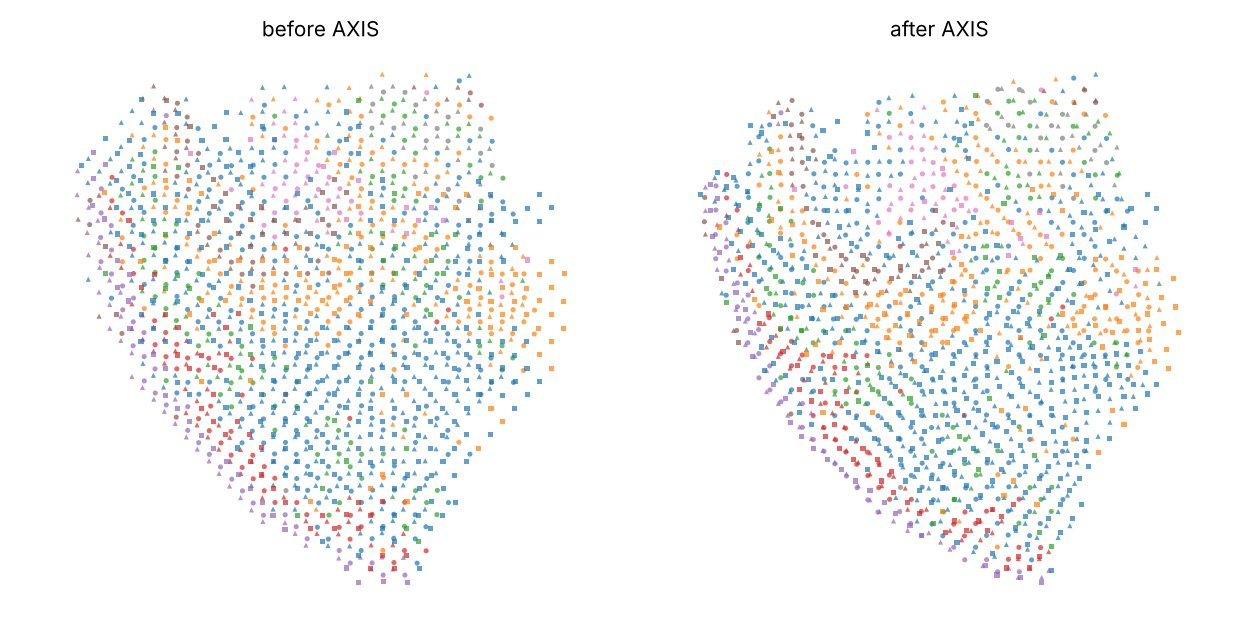
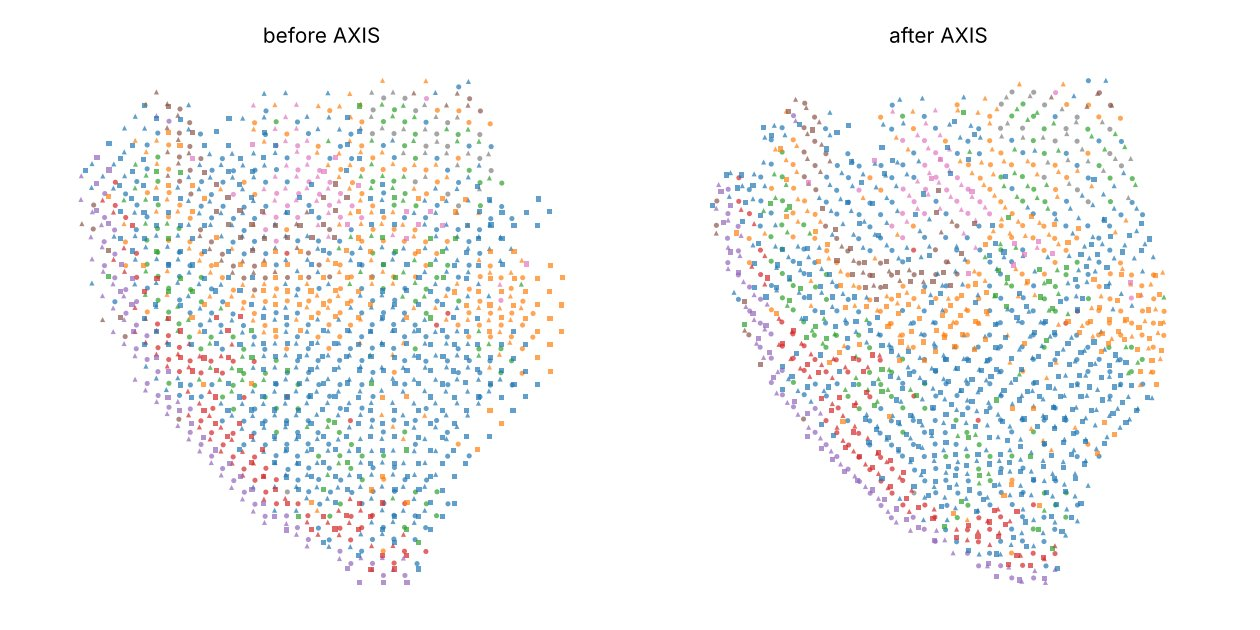
Gallery: SCC patient-10 reproduction report with parameters
The gallery becomes a report of the SCC analysis (Fig. 3) reproduced with
the manuscript's trained model:
- summary, data, and every setting used (pseudo-images, network and the
  training settings of its weights, matching, generation, evaluation
  metrics with their definitions);
- results: alignment against the published positions, Fig. 3c cluster
  metrics and Fig. 3f-g gene-pattern metrics (from the manuscript's
  evaluation scripts), figures from the manuscript-model run, and new
  KRT1/COL1A1 maps of the held-out vs generated section;
- the 256-px CPU training run as a comparison, and how to reproduce.

axis.pl.spatial gains vmin so panels can share one colour scale.

Claude-Session: https://claude.ai/code/session_01C6GeFzGzrUA8Am8cHa4gkL

diff --git a/src/axis/pl/_plotting.py b/src/axis/pl/_plotting.py
@@ -99,13 +99,15 @@ def spatial(
     title: Optional[str] = None,
     vmax: Optional[float] = None,
     mask_key: Optional[str] = "valid",
+    vmin: Optional[float] = None,
 ):
     """Scatter one AnnData by a gene (continuous) or an ``obs`` column (categorical).
 
     ``mask_key`` (``obs["valid"]`` for generated tissues) hides unsupported
     output locations. Category colours follow ``categories`` (default: the
     column's category order), so panels that share it use the same colours
-    even when some categories are absent.
+    even when some categories are absent. ``vmin`` / ``vmax`` fix the colour
+    range of continuous values, e.g. to compare panels on one scale.
     """
     plt = _plt()
     if ax is None:
@@ -142,7 +144,7 @@ def spatial(
             X = adata.layers[layer] if layer else adata.X
             col = X[:, adata.var_names.get_loc(color)]
             values = np.asarray(col.toarray() if hasattr(col, "toarray") else col, dtype=float).ravel()
-        sc = ax.scatter(xy[keep, 0], xy[keep, 1], c=values[keep], s=s, cmap=cmap, vmax=vmax, linewidths=0)
+        sc = ax.scatter(xy[keep, 0], xy[keep, 1], c=values[keep], s=s, cmap=cmap, vmin=vmin, vmax=vmax, linewidths=0)
         plt.colorbar(sc, ax=ax, fraction=0.046, pad=0.02)
     ax.set_title(title if title is not None else (color or ""), fontsize=10)
     _finish(ax)

diff --git a/docs/gallery.md b/docs/gallery.md
@@ -1,77 +1,207 @@
-# Gallery
+# Gallery: SCC patient 10
 
-Outputs of the quickstart (`examples/quickstart_scc.py`) on SCC patient 10,
-run on a 4-core CPU without a GPU:
+This page reproduces the SCC analysis of the manuscript (Fig. 3) on the
+quickstart sample with the reorganised `axis` package and the manuscript's
+trained SCC patient-10 model, without retraining. All numbers below come from
+`examples/quickstart_scc.py` and from the manuscript's own pipeline and
+evaluation scripts in `reproducibility/`.
 
-```bash
-python examples/quickstart_scc.py --data-dir scc_patient10 --canvas-size 256 --max-steps 400
-```
+!!! success "Summary"
+    - **Alignment.** The transition fields reproduce the published alignment:
+      the median distance between the transported spots and the published
+      positions is **0 px**. 74% (10 µm) and 67% (20 µm) of the spots land on
+      exactly the published pixel, and 95% / 90% lie within 1 px.
+    - **Generation.** `axis.tl.generate` and the manuscript pipeline
+      (`reproducibility/pipelines/generation/scc_depth.py`) produce a
+      **bit-identical** virtual 10-µm section (expression, cluster
+      probabilities and labels).
+    - **Evaluation.** The generated section scores 0.198 / 0.271 / 0.158 on
+      the Fig. 3c cluster metrics. The gene-pattern scores of Fig. 3f–g are
+      0.576 / 0.395 / 0.363 for the marker genes and 0.520 / 0.291 / 0.269
+      for the top-100 genes.
 
-The network was trained from scratch for 400 steps on a 256-px canvas
-(55 min); the paper's models use 512-px canvases and 1000 epochs. Rerunning
-from the saved model with `--checkpoint quickstart_out/model/model_final.pth --epochs 0`
-reproduces the same numbers in 81 s.
+## Data
 
-## Molecular pseudo-image
+| Item | Details |
+|---|---|
+| Sample | Cutaneous squamous cell carcinoma, patient 10 (Ji *et al.*, *Cell* 2020; GEO GSE144240) |
+| Sections | three serial 10x Visium sections at 0, 10 and 20 µm: 545, 619 and 460 spots |
+| Morphology | H&E on a 512 × 512 px canvas; neighbouring spots are about 13.5 px apart |
+| Clusters | `obs["original_clusters"]`: 8 clusters, the same labels in every section (7 occur in the 20-µm section) |
+| Held out | the 10-µm section: it is not used for generation and serves as ground truth |
 
-The first 10 principal components of section 0, rasterised at 1/8 of the
-canvas resolution (Methods, Eq. 1).
+## Settings
 
-![Pseudo-image channels of section 0](assets/gallery/scc_pseudoimage_section0.jpg)
+**Pseudo-images** (`axis.pp.build_pseudoimages`, preset `"visium"`)
 
-## Transition field: 20 µm → 0 µm
+| Parameter | Value |
+|---|---|
+| normalisation | 10⁴ counts per spot, then log1p |
+| features | genes shared by the three sections (14,197) |
+| components | 10 principal components, each min–max scaled to [0, 1] |
+| rasterisation | Gaussian kernel on a 32 × 32 grid of 16-px cells (σ = 8 px), 2 × 2 median filter, nearest-neighbour resize to 64 × 64 (1/8 of the canvas) |
+| gene filter | the quickstart keeps all shared genes; the Fig. 3 pipeline run below first removed genes detected in fewer than 15 spots, as the original SCC preprocessing did (spots with fewer than 100 genes would also be removed; there are none). The resulting fields differ by 0.01 px on average |
 
-Fixed and moving H&E, the moving section warped by the learned field, and
-green/magenta overlays before and after.
+**Transition-field network**
 
-![Registration of section 2 onto section 0](assets/gallery/scc_registration_2_to_0.jpg)
+| Parameter | Value |
+|---|---|
+| network | `TransitionFieldNet`, transformer fusion, RGB H&E input, 512-px canvas |
+| weights | manuscript model `scc_patient10_img_win9_gene_win5_frac0.95_gene0.5_generegu0/model_1000.pth` |
+| training settings of these weights | morphology NCC window 9; molecular masked-NCC window 5 (≥ 95% overlap); λ_morph = 1, λ_mol = 0.5, λ_smooth = 1 (smoothness on the full-resolution field); Adam, learning rate 10⁻⁴, batch size 1; 1000 epochs |
+| inference | evaluation mode on a 4-core CPU: fields for all 6 ordered section pairs within 59 s of starting (including data loading and pseudo-images); the whole quickstart takes 69 s |
 
-## Spatially matched sections
+**Spatial matching** (`axis.tl.match`, reference = section 0)
 
-All three sections before and after transport into the frame of section 0
-(colour: cluster, marker: section).
+Spots of sections 1 and 2 are transported into section 0 with the
+nearest-pixel inverse of their fields (`fields.transport`). *Neighbourhood
+agreement* is the fraction of spots whose cluster is a majority cluster of the
+section-0 spots within 1.5 spot distances (20.25 px).
+
+**Generation** (`axis.tl.generate`, the settings of the Fig. 3 run)
+
+| Parameter | Value |
+|---|---|
+| anchors → query | 0 µm and 20 µm → 10 µm; relative position α = 0.5, anchor weights β = (0.5, 0.5) |
+| biological-axis bandwidth | σ_τ = 6.67 µm (one third of the anchor spacing) |
+| output support | Visium-like hexagonal grid, `grid_size=40`: 1,650 locations, 13.75 px apart |
+| tissue support | locations within `max_dist` = 10 px of the transported evidence (1,005 points), smoothed on the grid, largest connected region |
+| spatial bandwidth | σ_x = 3 px, for both expression and clusters (no separate cluster bandwidth) |
+| neighbours | k = 48 nearest evidence points (at least 1) |
+| molecular-quality weight | γ_C = 1, γ_G = 0.7, relative coverage clipped to [0.5, 2] |
+| genes | all 14,567 genes shared by the two anchors; raw counts, weighted mean |
+
+**Evaluation** (the manuscript's scripts in `reproducibility/figure3/`)
+
+| Metric | Definition |
+|---|---|
+| cluster composition | symmetric relative absolute error of the cluster fractions (generated vs held-out) |
+| within-cluster spacing | Wasserstein distance between the nearest same-cluster distances, in units of each tissue's spot spacing |
+| cluster connectivity | Jensen–Shannon distance (base 2) between the 6-nearest-neighbour cluster profiles |
+| gene sets | 12 markers (KRT1, KRT5, KRT10, KRT14, KRT15, COL1A1, COL1A2, DCN, PECAM1, VWF, PTPRC, CD3D) and the 100 most highly expressed other genes of the held-out section |
+| gene preprocessing | 10⁴ counts per spot and log1p; smoothing over 12 neighbours, z-score, local gradients (8 neighbours) and gradient trend (28 neighbours), rasterised on a 64 × 64 grid |
+| gradient-map similarity | NCC of the gradient-strength maps, maximised over rotations of ±12° (3° steps) and shifts of ±6 cells (2-cell steps) |
+| orientation similarity | Pearson correlation of the axial gradient orientations (cos 2θ, sin 2θ) in cells above the 60th percentile of the held-out gradient strength |
+| weighted orientation similarity | the same over all cells, with orientations weighted by normalised gradient strength |
+
+Cluster metrics are averaged over clusters and gene metrics over the genes of
+each set. Lower is better for the cluster metrics, higher for the gene metrics.
+
+## Results
+
+### Alignment
+
+| Spatial matching to section 0 | before | this package, manuscript model | published |
+|---|---|---|---|
+| 10 µm, neighbourhood agreement | 0.624 | 0.706 | 0.715 |
+| 20 µm, neighbourhood agreement | 0.551 | 0.707 | 0.714 |
+| 10 µm, median displacement | — | 19.2 px | 19.1 px |
+| 20 µm, median displacement | — | 29.1 px | 29.2 px |
+
+| Agreement with the published positions | 10 µm | 20 µm |
+|---|---|---|
+| median distance | 0 px | 0 px |
+| spots on exactly the published pixel | 74% | 67% |
+| spots within 1 px | 95% | 90% |
+
+The published positions are whole pixels chosen by a nearest-pixel inverse
+of the field. For the remaining spots, the published pixel is almost as good a
+solution under the recomputed field: it maps back to within 0.16 px (10 µm)
+and 0.23 px (20 µm), median, of the best pixel. Sub-pixel differences between
+the original GPU computation and this CPU run therefore move these spots to a
+neighbouring pixel, which also explains the small differences in
+neighbourhood agreement.
+
+![H&E of the 20-µm section registered onto the 0-µm section](assets/gallery/scc_registration_2_to_0.jpg)
+
+*Fixed (0 µm) and moving (20 µm) H&E, the moving section warped by the
+learned field, and green/magenta overlays before and after.*
 
 ![Sections before and after matching](assets/gallery/scc_matched.jpg)
 
-## Virtual tissue at 10 µm
+*All three sections before and after transport into the frame of section 0
+(colour: cluster, marker: section).*
 
-The 10-µm section generated from the 0- and 20-µm anchors (α = 0.5) on a
-Visium-like grid with the settings of the manuscript's Fig. 3, next to the
-measured 10-µm section that was held out.
+### Virtual tissue at 10 µm
 
 ![Virtual 10-µm section](assets/gallery/scc_virtual_section.jpg)
 
-## Numbers (`report.json`)
+*The 10-µm section generated from the 0- and 20-µm anchors (849 supported
+locations), next to the measured sections.*
 
-Neighbourhood agreement is the fraction of spots whose cluster matches the
-majority cluster of section-0 spots within 1.5 spot distances. "Published"
-is the AXIS alignment stored with the sample (`obsm["spatial_axis"]`). The
-last column runs the same script with the SCC patient-10 model used in the
-manuscript (512 px, `--checkpoint ... --epochs 0`, 69 s on the same CPU).
+![KRT1 and COL1A1, measured and generated](assets/gallery/scc_gene_maps.jpg)
 
-| | before | this run | manuscript model | published |
-|---|---|---|---|---|
-| 10 µm → 0 µm, neighbourhood agreement | 0.624 | 0.676 | 0.706 | 0.715 |
-| 20 µm → 0 µm, neighbourhood agreement | 0.551 | 0.662 | 0.707 | 0.714 |
+*KRT1 (epithelium) and COL1A1 (stroma) in the held-out 10-µm section and in
+the generated section; 10⁴ counts per spot, log1p, one colour scale per gene
+(0 to the 99th percentile of both).*
 
-This run's transported spots lie 3.5 px (10 µm) and 4.6 px (20 µm) from the
-published ones on the 256-px canvas, where neighbouring spots are 6.75 px
-apart. With the manuscript model, the median distance is 0 px: 67–74% of the
-spots land on exactly the published pixel and 90–95% within 1 px. The rest
-differ because the published positions are whole pixels chosen by a
-nearest-pixel inverse of the field, so sub-pixel differences between the
-original GPU computation and this CPU run move some spots to a neighbouring
-pixel.
+| Fig. 3c, cluster fidelity (lower is better) | AXIS |
+|---|---|
+| cluster composition | 0.198 |
+| within-cluster spacing | 0.271 |
+| cluster connectivity | 0.158 |
 
-Generated 10-µm section against the held-out measurement, with the cluster
-metrics of Fig. 3c (means over clusters; lower is better):
-
-| | this run | manuscript model |
+| Fig. 3f–g, gene-pattern fidelity (higher is better) | 12 marker genes | top-100 genes |
 |---|---|---|
-| supported spots | 882 | 849 |
-| cluster composition (symmetric relative error) | 0.166 | 0.198 |
-| within-cluster nearest-neighbour distance (Wasserstein) | 0.307 | 0.271 |
-| cluster connectivity (Jensen–Shannon distance) | 0.168 | 0.158 |
+| gradient-map similarity | 0.576 | 0.520 |
+| orientation similarity | 0.395 | 0.291 |
+| weighted orientation similarity | 0.363 | 0.269 |
 
-With the manuscript model, these values match the Fig. 3 evaluation script
-(`reproducibility/figure3/3bc_cluster_evaluation.py`) exactly.
+Both tables come from the manuscript's evaluation scripts
+(`reproducibility/figure3/3bc_cluster_evaluation.py` and
+`3defg_gene_evaluation.py`), run on the output of the Fig. 3 pipeline. The
+quickstart's own virtual section gives the same cluster metrics. Its
+`axis.metrics` implementation matches the script to machine precision. Its
+gene metrics agree within 0.001. The SpatialZ comparison of Fig. 3 is not
+repeated here.
+
+## Training from scratch on a CPU
+
+Without a trained model, the quickstart can train the network itself. On a
+4-core CPU without a GPU, training at 512 px does not fit in memory, so this
+run used half the resolution and a short schedule:
+
+```bash
+python examples/quickstart_scc.py --data-dir scc_patient10 \
+    --canvas-size 256 --max-steps 400
+```
+
+That is 400 optimisation steps (about 67 epochs over the 6 pairs) on a
+256-px canvas, taking 55 min. The pixel-unit generation settings are halved
+(σ_x = 1.5 px, `max_dist` = 5 px).
+
+| | CPU run (256 px, 400 steps) | manuscript model (512 px, 1000 epochs) |
+|---|---|---|
+| 10 µm, neighbourhood agreement | 0.676 | 0.706 |
+| 20 µm, neighbourhood agreement | 0.662 | 0.707 |
+| distance to the published positions (median) | 3.5 px / 4.6 px on the 256-px canvas (spots 6.75 px apart) | 0 px |
+| supported locations of the virtual section | 882 | 849 |
+| cluster composition | 0.166 | 0.198 |
+| within-cluster spacing | 0.307 | 0.271 |
+| cluster connectivity | 0.168 | 0.158 |
+
+The short CPU run recovers most of the alignment but not the manuscript's
+accuracy. Full training (512 px, 1000 epochs) needs a GPU: on this CPU, a
+single 512-px training step exceeds 13 GB of memory.
+
+## Reproducing this page
+
+```bash
+# results with a trained model (inference only, about 70 s on 4 CPU cores)
+python examples/quickstart_scc.py --data-dir scc_patient10 --out quickstart_out \
+    --checkpoint scc_patient10_model_1000.pth --epochs 0
+```
+
+`quickstart_out/report.json` contains the alignment and Fig. 3c numbers
+above, and the figures are written next to it.
+
+To run the Fig. 3 pipeline itself, put the following below the SCC data root
+(`$AXIS_DATA_DIR/SCC/huifang`):
+
+- `h5ad/10_{0,1,2}.h5ad`: the sample files;
+- `network_input/10_{k}_validation.npz`: canvas coordinates under the key `coord`;
+- `pairwise_output/group_10/{fixed}_{moving}_flow.npy`: the fields, written by `fields.save(...)`.
+
+Then run `reproducibility/pipelines/generation/scc_depth.py` and the
+evaluation scripts in `reproducibility/figure3/` (see
+[Reproducibility](reproducibility.md)).

diff --git a/docs/quickstart.md b/docs/quickstart.md
@@ -91,9 +91,10 @@ anchor weights β = (0.5, 0.5).
 
 ```bash
 python examples/quickstart_scc.py --data-dir scc_patient10 --out quickstart_out             # GPU
-python examples/quickstart_scc.py --data-dir scc_patient10 --canvas-size 256 --max-steps 400  # CPU (gallery run)
+python examples/quickstart_scc.py --data-dir scc_patient10 --canvas-size 256 --max-steps 400  # CPU
 ```
 
-writes the figures shown in the [gallery](gallery.md) and a `report.json`
-comparing the learned alignment with the published one and the generated
-section with the held-out measurement.
+writes figures and a `report.json` comparing the learned alignment with the
+published one and the generated section with the held-out measurement (Fig. 3c
+cluster metrics). The [gallery](gallery.md) shows the results with the
+manuscript's trained model, with all parameters, next to the CPU run.

diff --git a/README.md b/README.md
@@ -99,8 +99,10 @@ Training dominates the run time: 400 steps at 256 px took 55 min on 4 CPU
 cores (training at 512 px needs a GPU or more than 14 GB of RAM). Pass
 `checkpoint=` to `axis.tl.fit_transition` (or `--checkpoint` to the script) to
 start from a trained model; with `epochs=0` the whole quickstart then runs in
-about 1.5 min on the same CPU. Results of the CPU run are shown in the
-[gallery](https://huifangzju.github.io/Axis/gallery/).
+about 1.5 min on the same CPU. The
+[gallery](https://huifangzju.github.io/Axis/gallery/) reports the results with
+the manuscript's trained model, which reproduce the published alignment and
+the Fig. 3 evaluation, with all parameters, next to the CPU run.
 
 ## Usage by application
 

diff --git a/docs/changelog.md b/docs/changelog.md
@@ -22,6 +22,8 @@ First public release, restructured from the submission snapshot
 * `axis.pp.prepare_canvas` drops an alpha channel and rescales images with
   values above 255 (e.g. 16-bit DAPI) linearly by their maximum instead of
   clipping them; other inputs are unchanged.
+* `axis.pl.spatial` takes `vmin` (with `vmax`) to put continuous values of
+  several panels on one colour scale.
 * `axis.pl.spatial` and `axis.pl.matched` colour categories in a fixed order
   (the column's categorical order, otherwise a natural sort of the labels).
   `axis.pl.matched` gives each category one colour across all samples;
